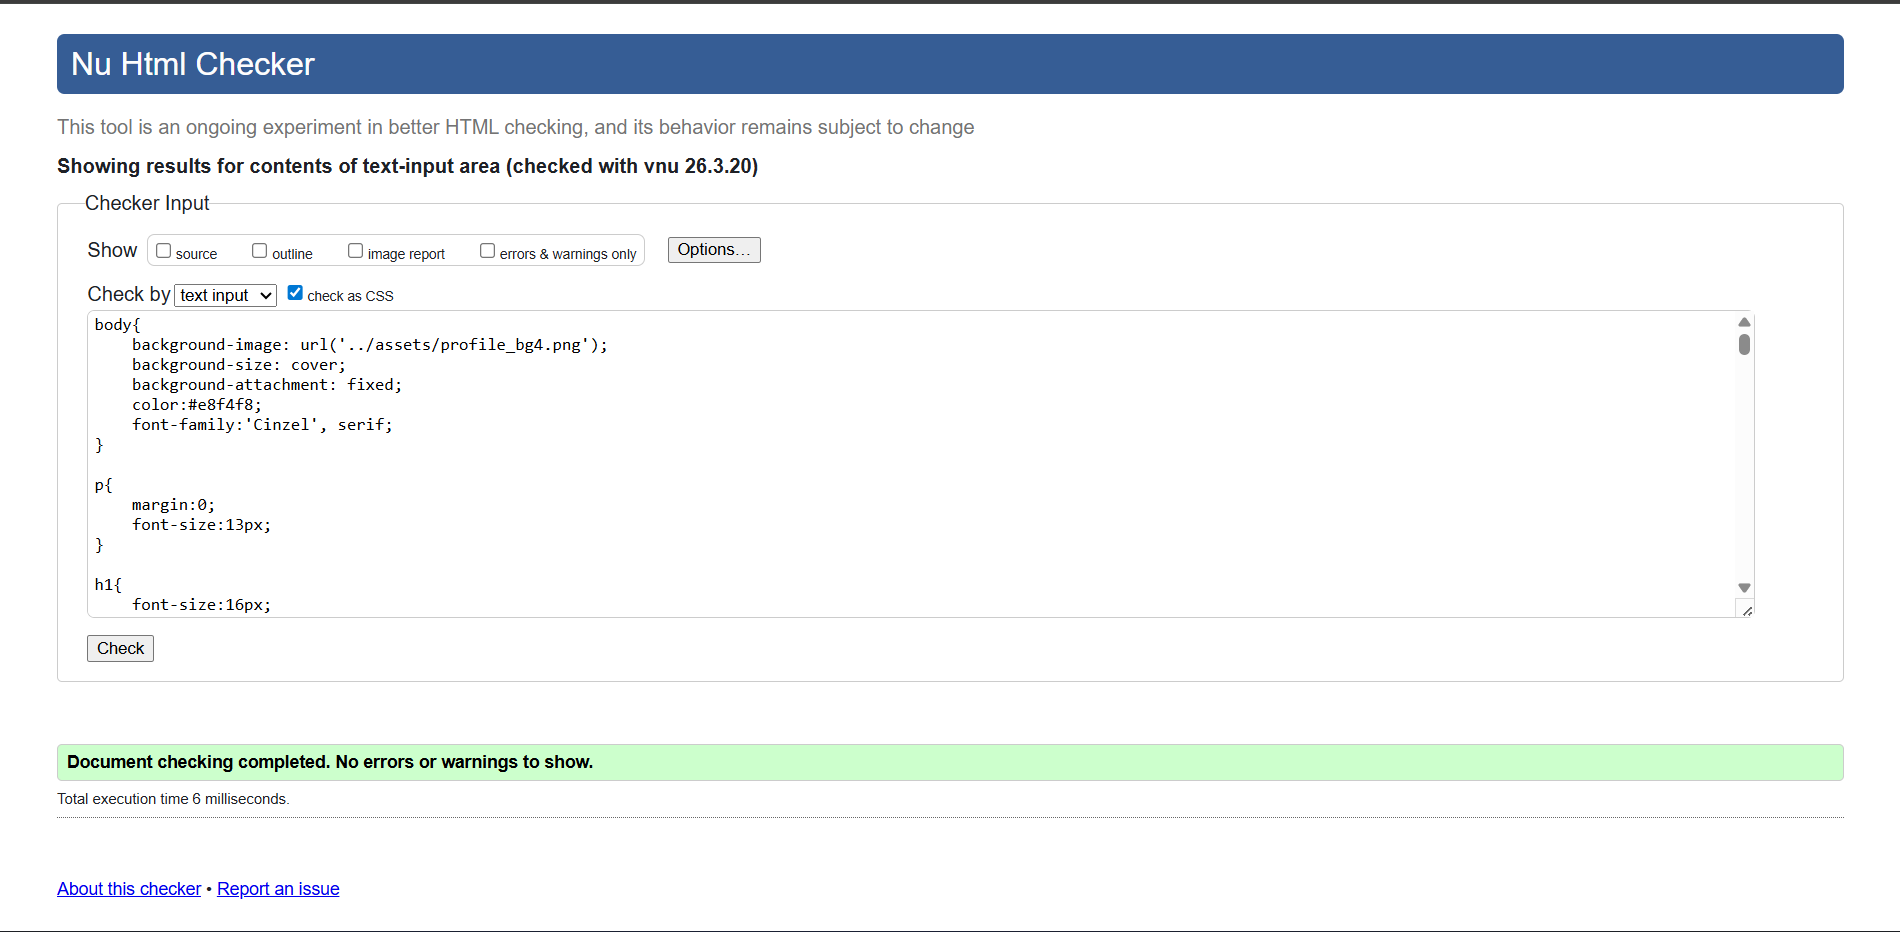
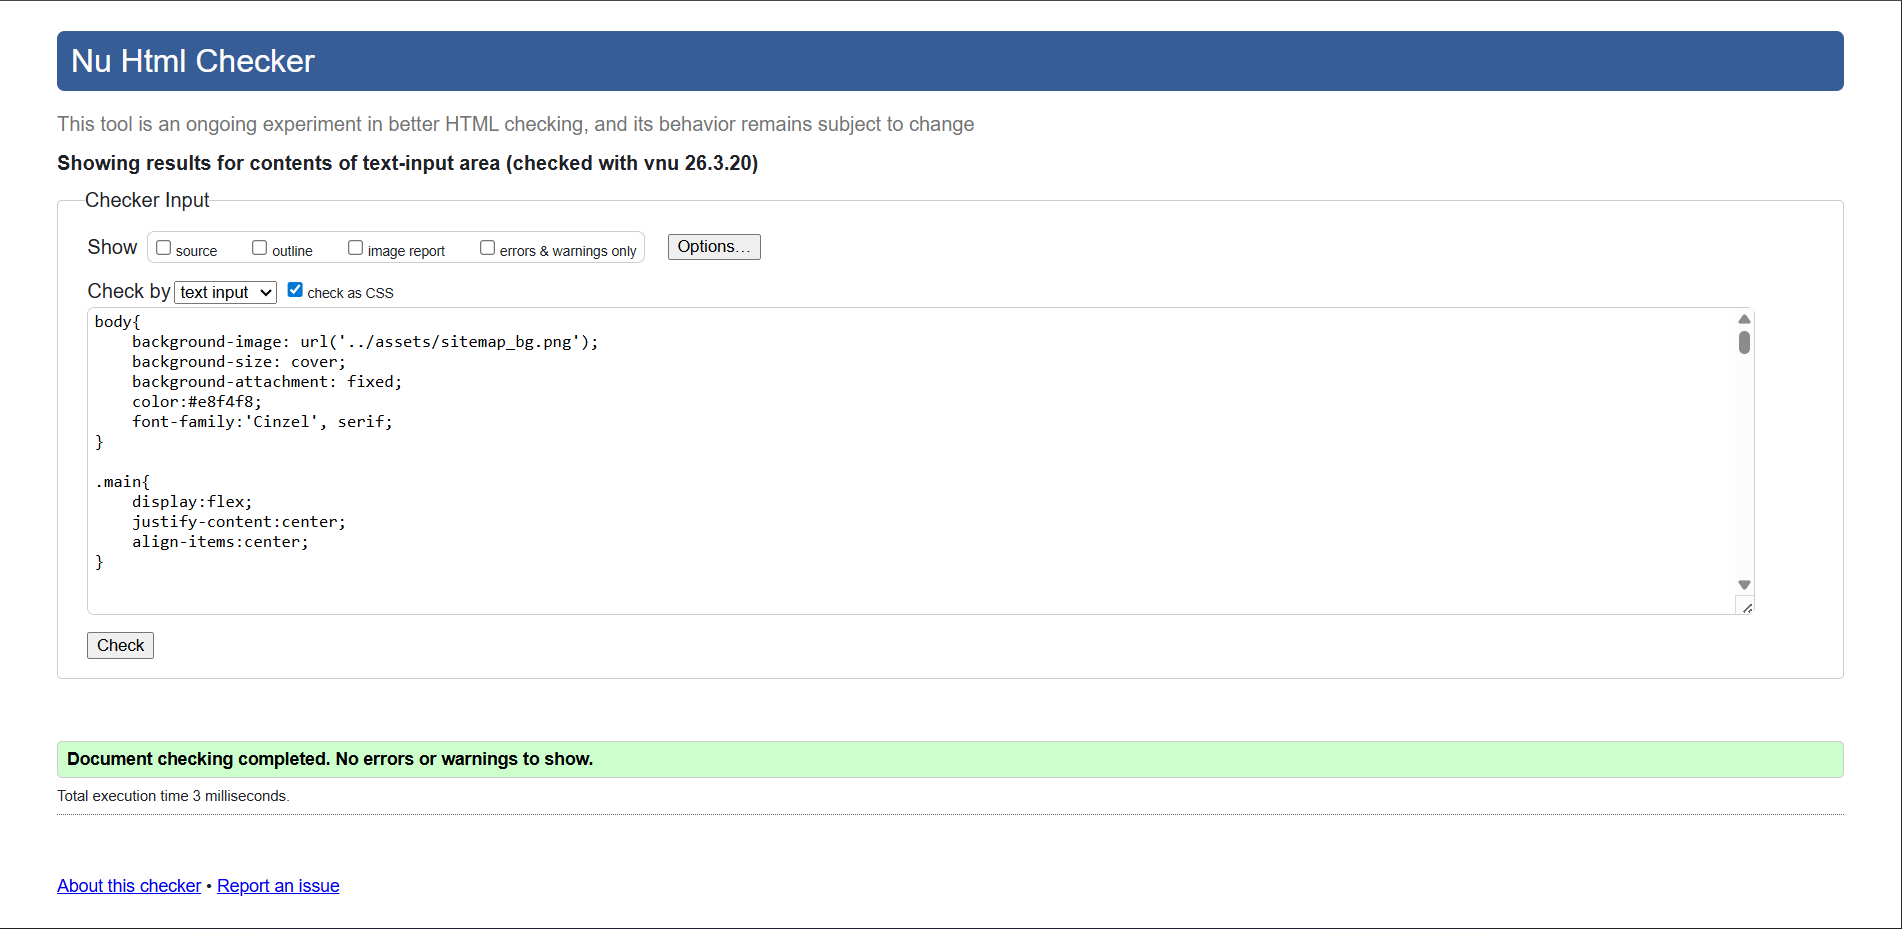
Refactor code structure for improved readability and maintainability

diff --git a/ais.html b/ais.html
@@ -649,24 +649,24 @@
   <img src="assets/bg_low.png" class="scene-bg" id="sceneBg"
     alt="Ocean state background — changes based on your impact score">
     <header>
-      <nav>
-        <section class="logo-area">
-          <section class="logo-circle"></section>
-          <section class="logo-text">
-            <h1>Echoes From The Deep</h1>
-            <p>SDG 14 · Life Below Water</p>
-          </section>
-        </section>
-        <section class="nav-links">
-          <a href="home.html">Home</a>
-          <a href="gallery.html">Gallery</a>
-          <a href="ais.html" class="active">Action Impact Simulator</a>
-          <a href="feedback.html">Feedback</a>
-          <a href="team.html">Team</a>
-          <a href="profile.html">Profile</a>
-          <a href="sitemap.html">Sitemap</a>
-        </section>
-      </nav>
+        <nav>
+            <div class="logo-area">
+                <div class="logo-circle"></div>
+                <div class="logo-text">
+                    <p>Echoes From The Deep</p>
+                    <p>SDG 14 · Life Below Water</p>
+                </div>
+            </div>
+            <div class="nav-links">
+                <a href="home.html" >Home</a>
+                <a href="gallery.html">Gallery</a>
+                <a href="ais.html"  class="active">Action Impact Simulator</a>
+                <a href="feedback.html">Feedback</a>
+                <a href="team.html">Team</a>
+                <a href="profile.html">Profile</a>
+                <a href="sitemap.html">Sitemap</a>
+            </div>
+        </nav>
     </header>
 
     <main>

diff --git a/home.html b/home.html
@@ -27,7 +27,7 @@
             <div class="logo-area">
                 <div class="logo-circle"></div>
                 <div class="logo-text">
-                    <h1>Echoes From The Deep</h1>
+                    <p>Echoes From The Deep</p>
                     <p>SDG 14 · Life Below Water</p>
                 </div>
             </div>

diff --git a/profile.html b/profile.html
@@ -17,7 +17,7 @@
             <div class="logo-area">
                 <div class="logo-circle"></div>
                 <div class="logo-text">
-                    <h1>Echoes From The Deep</h1>
+                    <p>Echoes From The Deep</p>
                     <p>SDG 14 · Life Below Water</p>
                 </div>
             </div>

diff --git a/styles/sitemap.css b/styles/sitemap.css
@@ -12,20 +12,6 @@ body{
     align-items:center;
 }
 
-.page-header{
-    display:flex;
-    flex-direction:column;
-    align-items:left;
-    gap:10px;
-    margin-top:50px;
-    margin-left:150px;
-}
-
-.page-sub{
-    color:rgb(201, 169, 110);
-    font-style:italic;
-    font-size:15px;
-}
 
 .sitemap-wrapper{
     max-width:80%;
